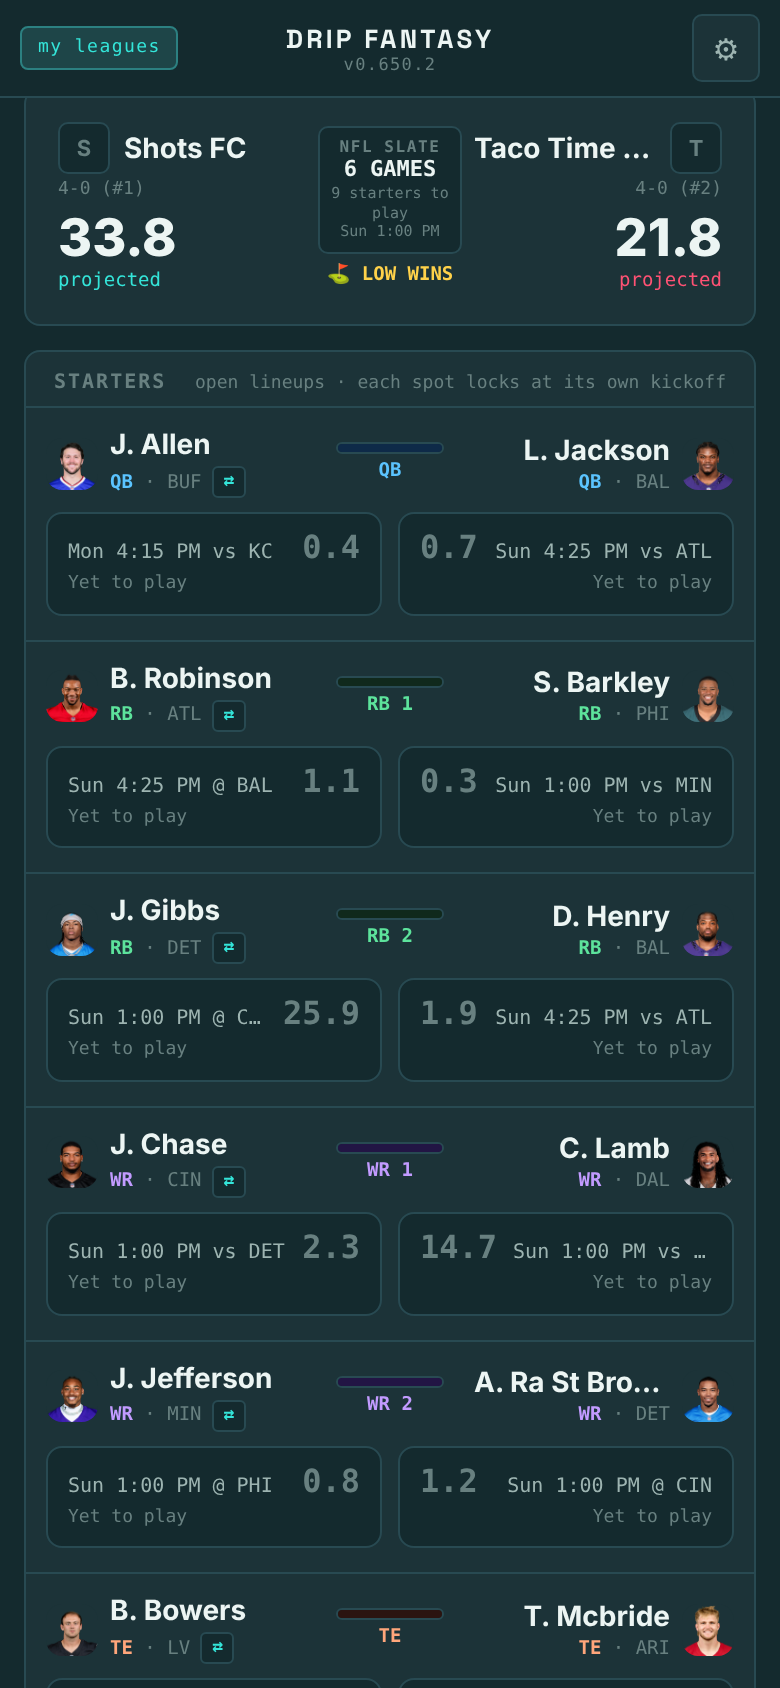
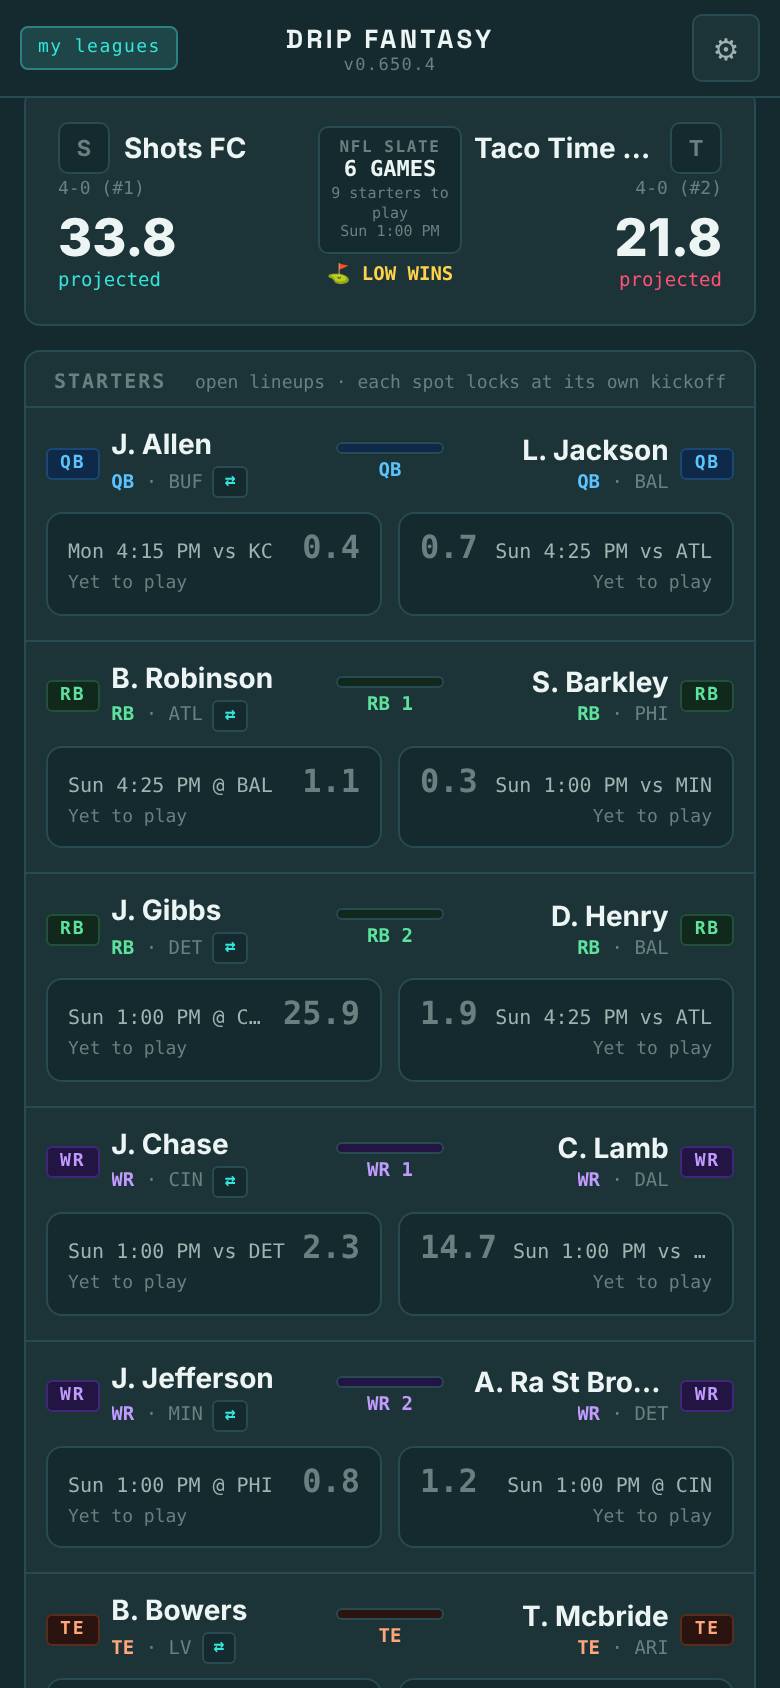
v0.651.0: the chips pick the screen, and the screens are mark-free
Founder: "let's do mark free though on these images. Let's not auto rotate,
but let users select the chips to rotate the images."

- The rail's clock is gone. Each card keeps its own shot index; a chip
  with a shot moves the rail to it, and a dot opens the chip its shot
  belongs to. Chips without a shot open their line and leave the rail.
- League types gains Full college and Mixed college chips, so every
  screen on that card has a chip that opens it.
- The twelve in-game screens are re-shot with ?markfree=1: the same
  fixture league and frames, no NFL logos or headshots. Scoped bonuses
  carried no marks and is unchanged.

Claude-Session: https://claude.ai/code/session_01Ra1P2uYs7L1wujHxgAdth4

diff --git a/src/screens/Landing.tsx b/src/screens/Landing.tsx
@@ -3,7 +3,8 @@
 // Founder's revamp of the signed-out web flow, revised: the welcome and the
 // dreamers line, "Count me in! | Sign in" with no small print under it, then
 // the five feature groups — the chips stay — each with a rail of phone
-// screens rotating beside them, and the matchup card doubling as the door to
+// screens under them that the chips pick (v0.651.0; it turned on its own
+// before), and the matchup card doubling as the door to
 // the demo ("Click here for a demo"). Bullseye joined the competitive modes.
 //
 // The screens are the founder's phone screenshots, dropped into
@@ -31,59 +32,55 @@ let sessionChecked = false;
 
 /** One screen on a card's rail. `file` lives in public/brand/funnel/ (a phone
  *  screenshot, portrait) unless `dir` says otherwise; `label` is the caption
- *  under it and the placeholder's text until the file exists. */
-interface Shot { file: string; label: string; dir?: 'funnel' | 'brand' }
+ *  under it and the placeholder's text until the file exists; `chip` names
+ *  the chip on the card that shows it (v0.651.0: the chips drive the rail). */
+interface Shot { file: string; label: string; dir?: 'funnel' | 'brand'; chip?: string }
 
 /** THE SHOOTING LIST. Every file here is one the founder makes on a phone;
  *  the README beside them repeats this list with what each one should show.
  *  Keyed by the feature heading in LANDING_FEATURES. */
 export const FUNNEL_SHOTS: Record<string, Shot[]> = {
   'League types': [
-    { file: 'league-redraft.png', label: 'Redraft' },
-    { file: 'league-contract.png', label: 'Contract' },
-    { file: 'league-full-college.png', label: 'Full college' },
-    { file: 'league-mixed-college.png', label: 'Mixed college' },
-    { file: 'league-devy-market.png', label: 'Devy market' },
+    { file: 'league-redraft.png', label: 'Redraft · the matchup board', chip: 'Redraft' },
+    { file: 'league-contract.png', label: 'Contract · the cap sheet', chip: 'Contract' },
+    { file: 'league-full-college.png', label: 'Full college · the matchup board', chip: 'Full college' },
+    { file: 'league-mixed-college.png', label: 'Mixed college · two college spots', chip: 'Mixed college' },
+    { file: 'league-devy-market.png', label: 'Devy · the market', chip: 'Devy' },
   ],
   'Competitive modes': [
-    { file: 'mode-vampire.png', label: 'Vampire' },
-    { file: 'mode-guillotine.png', label: 'Guillotine' },
-    { file: 'mode-golf.png', label: 'Golf' },
-    { file: 'mode-bullseye.png', label: 'Bullseye' },
+    { file: 'mode-vampire.png', label: 'Vampire · the feeding log', chip: 'Vampire' },
+    { file: 'mode-guillotine.png', label: 'Guillotine · the chop report', chip: 'Guillotine' },
+    { file: 'mode-golf.png', label: 'Golf · low wins', chip: 'Golf' },
+    { file: 'mode-bullseye.png', label: 'Bullseye · aim at the number', chip: 'Bullseye' },
   ],
   'Positions': [
-    { file: 'positions-scoped.png', label: 'Scoped & named positions' },
-    { file: 'positions-hc-draft.png', label: 'HC draft' },
+    { file: 'positions-scoped.png', label: 'Scoped & named spots', chip: 'Scoped positions' },
+    { file: 'positions-hc-draft.png', label: 'A head-coach draft', chip: 'RET · FB · PUNT · HC' },
   ],
   'Scoring options': [
-    { file: 'scoring-bestball-mix.png', label: 'Best ball & non-roster, mixed' },
-    { file: 'scoring-scoped-bonuses.png', label: 'Scoped bonuses' },
+    { file: 'scoring-bestball-mix.png', label: 'Best ball and set spots, mixed', chip: 'Single-spot best ball' },
+    { file: 'scoring-scoped-bonuses.png', label: 'Scoped bonuses', chip: 'Scoped bonuses' },
   ],
-  // The matchup card rotates the drip screens the site already has (shot in
+  // The matchup card shows the drip screens the site already has (shot in
   // the running app, v0.614.1) — landscape, so it gets the wide frame.
   'Matchup style': [
-    { file: 'shot-drip-live.png', label: 'Drip · the Sunday window, live', dir: 'brand' },
+    { file: 'shot-drip-live.png', label: 'Drip · the Sunday window, live', dir: 'brand', chip: 'Drip' },
     { file: 'shot-sealed.jpg', label: 'Drip · sealed picks before kickoff', dir: 'brand' },
     { file: 'shot-duel.png', label: 'Drip · a live duel', dir: 'brand' },
-    { file: 'shot-classic.png', label: 'Classic · the board', dir: 'brand' },
+    { file: 'shot-classic.png', label: 'Classic · the board', dir: 'brand', chip: 'Classic' },
   ],
 };
 
-const ROTATE_MS = 3600;
-
-/** A rail of screens that rotates on its own: one frame, the shots crossfading
- *  through it, a caption and a dot per shot. Tap a dot to jump; the rail
- *  carries on from there. A missing file is a labelled placeholder, not a
- *  broken-image glyph, so the founder sees which slot each file fills. */
-function Rail({ shots, ratio, width, base, onTap }: { shots: Shot[]; ratio: string; width: number | string; base: string; onTap?: () => void }) {
-  const [i, setI] = useState(0);
+/** A rail of screens: one frame, the shots crossfading through it, a caption
+ *  and a dot per shot. It does not turn on its own (v0.651.0, founder: "let
+ *  users select the chips to rotate the images"): the card's chips pick the
+ *  shot, and the dots step it by hand. A missing file is a labelled
+ *  placeholder, not a broken-image glyph, so the founder sees which slot each
+ *  file fills. */
+function Rail({ shots, ratio, width, base, index, onIndex, onTap }: { shots: Shot[]; ratio: string; width: number | string; base: string; index: number; onIndex: (i: number) => void; onTap?: () => void }) {
+  const i = Math.min(index, shots.length - 1);
   const [missing, setMissing] = useState<Record<string, true>>({});
-  useEffect(() => {
-    if (shots.length < 2) return;
-    const t = setInterval(() => setI((n) => (n + 1) % shots.length), ROTATE_MS);
-    return () => clearInterval(t);
-  }, [shots.length, i]); // `i` in the deps: a tap on a dot restarts the clock from that shot.
-  const cur = shots[Math.min(i, shots.length - 1)];
+  const cur = shots[i];
   if (!cur) return null;
   const frame: React.CSSProperties = { position: 'relative', width, aspectRatio: ratio, overflow: 'hidden', borderRadius: 8, background: 'var(--bg)', border: '1px solid var(--bd)', flex: 'none' };
   return (
@@ -106,7 +103,7 @@ function Rail({ shots, ratio, width, base, onTap }: { shots: Shot[]; ratio: stri
       {shots.length > 1 && (
         <div style={{ display: 'flex', gap: 5 }}>
           {shots.map((s, k) => (
-            <button key={s.file} aria-label={s.label} onClick={() => setI(k)}
+            <button key={s.file} aria-label={s.label} onClick={() => onIndex(k)}
               style={{ width: 6, height: 6, borderRadius: 3, padding: 0, border: 'none', cursor: 'pointer', background: k === i ? 'var(--you)' : 'var(--bd)' }} />
           ))}
         </div>
@@ -121,6 +118,9 @@ export function Landing() {
   const [faq, setFaq] = useState(false);
   const [waitlist, setWaitlist] = useState(false);
   const [openNote, setOpenNote] = useState<string | null>(null);
+  // Which shot each card's rail shows (v0.651.0). A chip with a shot moves
+  // the rail to it; a dot opens the chip that shot belongs to.
+  const [railIdx, setRailIdx] = useState<Record<string, number>>({});
   const narrow = typeof window !== 'undefined' && window.innerWidth < 640;
 
   // A signed-in player who lands here (OAuth return, magic link in a fresh
@@ -185,6 +185,18 @@ export function Landing() {
             const open = g.notes.find((n: FormatNote) => openNote === `${g.heading}|${n.name}`);
             const matchup = g.heading === 'Matchup style';
             const shots = FUNNEL_SHOTS[g.heading] ?? [];
+            const idx = railIdx[g.heading] ?? 0;
+            const pickShot = (k: number) => {
+              setRailIdx((r) => ({ ...r, [g.heading]: k }));
+              const chip = shots[k]?.chip;
+              if (chip) setOpenNote(`${g.heading}|${chip}`);
+            };
+            const pickChip = (name: string) => {
+              const key = `${g.heading}|${name}`;
+              setOpenNote((o) => (o === key ? null : key));
+              const k = shots.findIndex((x) => x.chip === name);
+              if (k >= 0) setRailIdx((r) => ({ ...r, [g.heading]: k }));
+            };
             const chips = (
               <>
                 <div className="grotesk" style={{ fontSize: 16, fontWeight: 700, color: 'var(--text)', letterSpacing: '-0.01em' }}>{g.heading}</div>
@@ -194,7 +206,7 @@ export function Landing() {
                     const key = `${g.heading}|${n.name}`;
                     const lit = openNote === key;
                     return (
-                      <button key={n.name} className="mono" aria-pressed={lit} onClick={() => setOpenNote((o) => (o === key ? null : key))}
+                      <button key={n.name} className="mono" aria-pressed={lit} onClick={() => pickChip(n.name)}
                         style={{ fontSize: 10, fontWeight: 700, letterSpacing: '0.05em', padding: '6px 10px', borderRadius: 5, cursor: 'pointer',
                           color: lit ? 'var(--on-accent)' : 'var(--text)', background: lit ? 'var(--you)' : 'var(--bg)', border: `1px solid ${lit ? 'var(--you)' : 'var(--bd)'}` }}>
                         {n.icon ? <span style={{ marginRight: 5 }}>{n.icon}</span> : null}{n.name.toUpperCase()}
@@ -205,7 +217,7 @@ export function Landing() {
                 <div className="mono" style={{ fontSize: 10.5, color: 'var(--dim)', lineHeight: 1.55, marginTop: 10, minHeight: 18 }}>
                   {open
                     ? <><b style={{ color: 'var(--text)' }}>{open.name}.</b> {open.line}</>
-                    : <span style={{ color: 'var(--faint)' }}>Tap one to read what it changes.</span>}
+                    : <span style={{ color: 'var(--faint)' }}>Tap a chip to see it.</span>}
                 </div>
               </>
             );
@@ -216,7 +228,7 @@ export function Landing() {
                     <div style={{ width: '100%' }}>{chips}</div>
                     {/* The demo door: the drip screens rotate under one button. */}
                     <div style={{ position: 'relative', width: '100%' }}>
-                      <Rail shots={shots} ratio="16 / 9" width="100%" base={base} onTap={toDemo} />
+                      <Rail shots={shots} ratio="16 / 9" width="100%" base={base} index={idx} onIndex={pickShot} onTap={toDemo} />
                       <button onClick={toDemo} className="mono" title="Play a week of Drip — free, no sign-in"
                         style={{ ...cta, position: 'absolute', left: '50%', top: '50%', transform: 'translate(-50%, -50%)', padding: '11px 18px', boxShadow: '0 4px 18px rgba(0,0,0,0.35)' }}>
                         ▶ {FUNNEL.demo.toUpperCase()}
@@ -228,7 +240,7 @@ export function Landing() {
                     <div>{chips}</div>
                     {/* The phone frame sits centred under the chips, big enough to read. */}
                     <div style={{ display: 'flex', justifyContent: 'center' }}>
-                      <Rail shots={shots} ratio="9 / 19" width={narrow ? 200 : 220} base={base} />
+                      <Rail shots={shots} ratio="9 / 19" width={narrow ? 200 : 220} base={base} index={idx} onIndex={pickShot} />
                     </div>
                   </>
                 )}

diff --git a/packages/core/src/data/leagueTagline.ts b/packages/core/src/data/leagueTagline.ts
@@ -246,6 +246,10 @@ const note = (list: FormatNote[], name: string): FormatNote => list.find((n) => 
 export const LANDING_FEATURES: { heading: string; sub: string; notes: FormatNote[] }[] = [
   { heading: 'League types', sub: 'What carries from one season to the next.', notes: [
     note(CONTINUITY_NOTES, 'Redraft'), note(CONTINUITY_NOTES, 'Dynasty'), note(CONTINUITY_NOTES, 'Keeper'), note(CONTINUITY_NOTES, 'Contract'),
+    // v0.651.0: the college shapes get chips of their own, so every screen on
+    // the card's rail has a chip that opens it.
+    { name: 'Full college', icon: '🏟', line: 'No NFL players at all: every spot takes college players and the season runs Saturday by Saturday, on the college calendar.' },
+    { name: 'Mixed college', icon: '🔀', line: 'College-only starting spots beside your NFL lineup — college and NFL players score in the same week.' },
     { name: 'Devy', icon: '🎓', line: 'College players on your roster before they’re drafted — as devy spots or as shares bought in a devy market, priced off StatHead’s rankings.' },
   ] },
   { heading: 'Competitive modes', sub: 'How the season ends differently.', notes: [

diff --git a/packages/core/src/version.ts b/packages/core/src/version.ts
@@ -2,7 +2,7 @@
 // Versioning: 3-part semver, pre-1.0. Bump patch per deploy (0.10.1, 0.10.2…),
 // minor for bigger features (0.11, 0.12…). Segments aren't capped at 9, so 1.0
 // is a deliberate choice, not an automatic rollover.
-export const APP_VERSION = 'v0.650.4';
+export const APP_VERSION = 'v0.651.0';
 
 // Stat data + 2025 NFL play-by-play powering this game comes from Stathead.
 export const DATA_SOURCE = { name: 'Stathead', url: 'https://stathead.app' };

diff --git a/STATUS.md b/STATUS.md
@@ -22,6 +22,27 @@ Near-daily (git shows daily bursts; season launch Sep 9 is the forcing function)
 
 ## Last worked (superseded entries below)
 
+### v0.651.0 — the chips pick the screen, and the screens are mark-free
+
+> - On the front page the screens no longer turn on their own: tap a chip and its screen comes up; the dots under a screen still step through by hand, and light the chip they land on.
+> - League types gains Full college and Mixed college chips, so every screen on that card has a chip that opens it.
+> - The screens themselves are re-shot mark-free: no NFL logos or headshots.
+
+Founder: "let's do mark free though on these images. Let's not auto rotate,
+but let users select the chips to rotate the images."
+
+- `Landing.tsx`: the rail's clock is gone; each card keeps its own shot
+  index, a chip with a shot (`FUNNEL_SHOTS[...].chip`) moves the rail to
+  it, and a dot opens the chip its shot belongs to. Chips without a shot
+  (Keeper, Dynasty, the core lineup chips, Others) open their line and
+  leave the rail where it is.
+- `leagueTagline.ts`: Full college and Mixed college chips on League types,
+  with lines; `check:tagline` still holds the card list and the
+  competitive-modes order.
+- The thirteen screens were re-shot with `?markfree=1` — the same fixture
+  league, the same frames, no marks. Scoped bonuses carried no marks and is
+  unchanged.
+
 ### v0.650.4 — the front page's screens refresh with each release
 
 > - The front page's rotating screens now update the moment a new version is live, instead of a browser keeping the old pictures.

diff --git a/public/brand/funnel/README.md b/public/brand/funnel/README.md
@@ -2,9 +2,11 @@
 
 Phone screenshots for the landing's feature cards (v0.650.0).
 
-**What's here now (v0.650.3) are stand-ins**: the in-game screens shot from the
-web app at phone size against fixture data, until the founder's app
-screenshots replace them. Overwrite file for file; the names are fixed. Each card
+**What's here now (v0.651.0) are stand-ins**: the in-game screens shot from the
+web app at phone size against fixture data, mark-free (no NFL logos or
+headshots), until the founder's app screenshots replace them. Overwrite file
+for file; the names are fixed. Shoot yours mark-free too (Settings, or
+`?markfree=1` on the URL). Each card
 rotates through its files; a file that isn't here yet shows as a labelled
 "SCREEN COMING" placeholder, so drop them in as you shoot them. The names are
 fixed — `src/screens/Landing.tsx` (`FUNNEL_SHOTS`) reads them.
